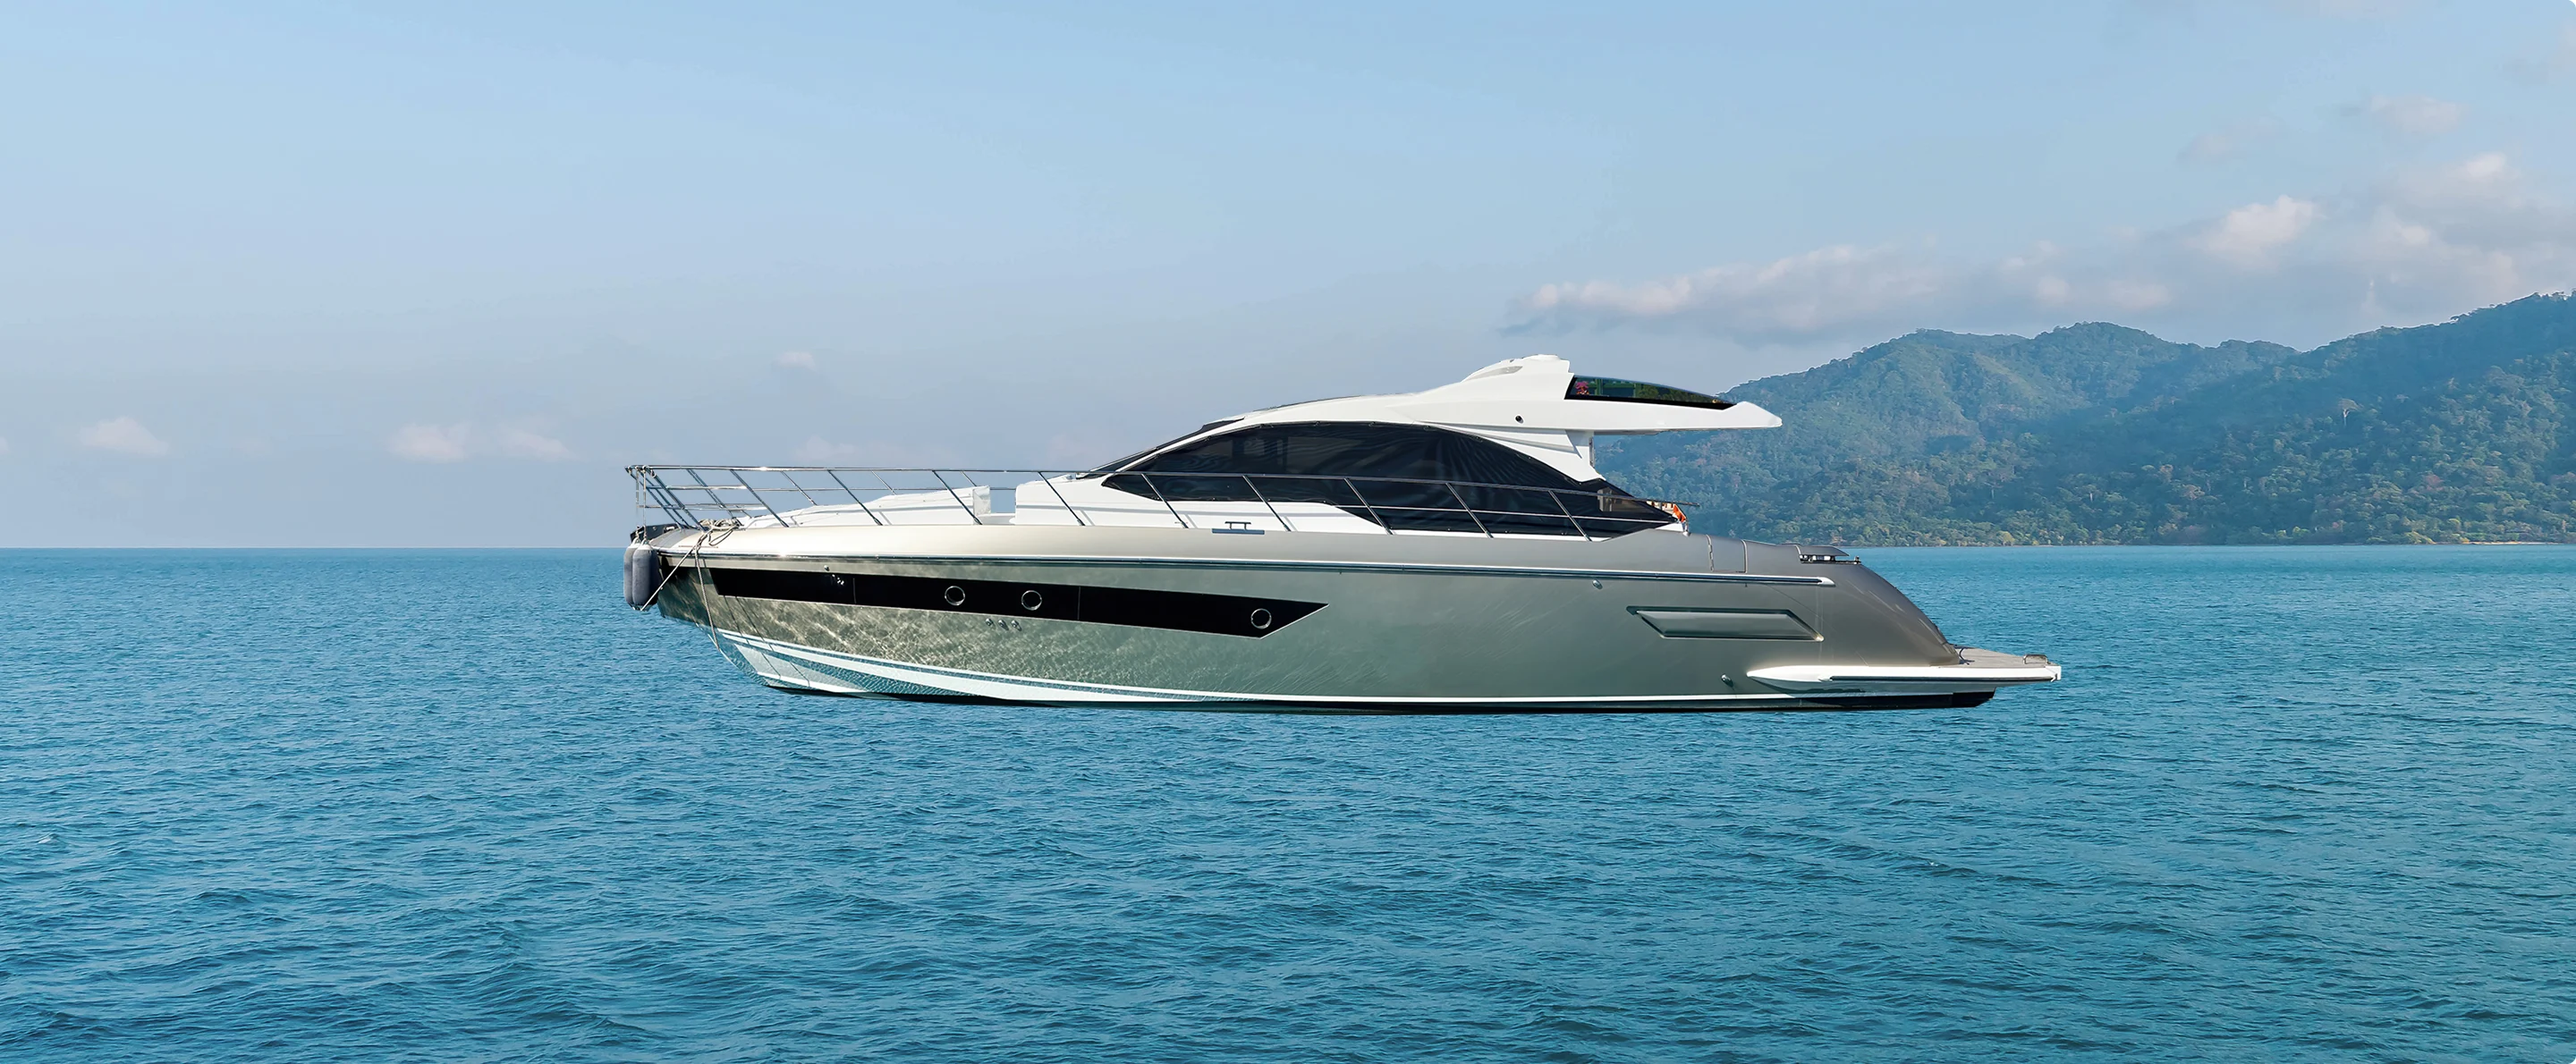
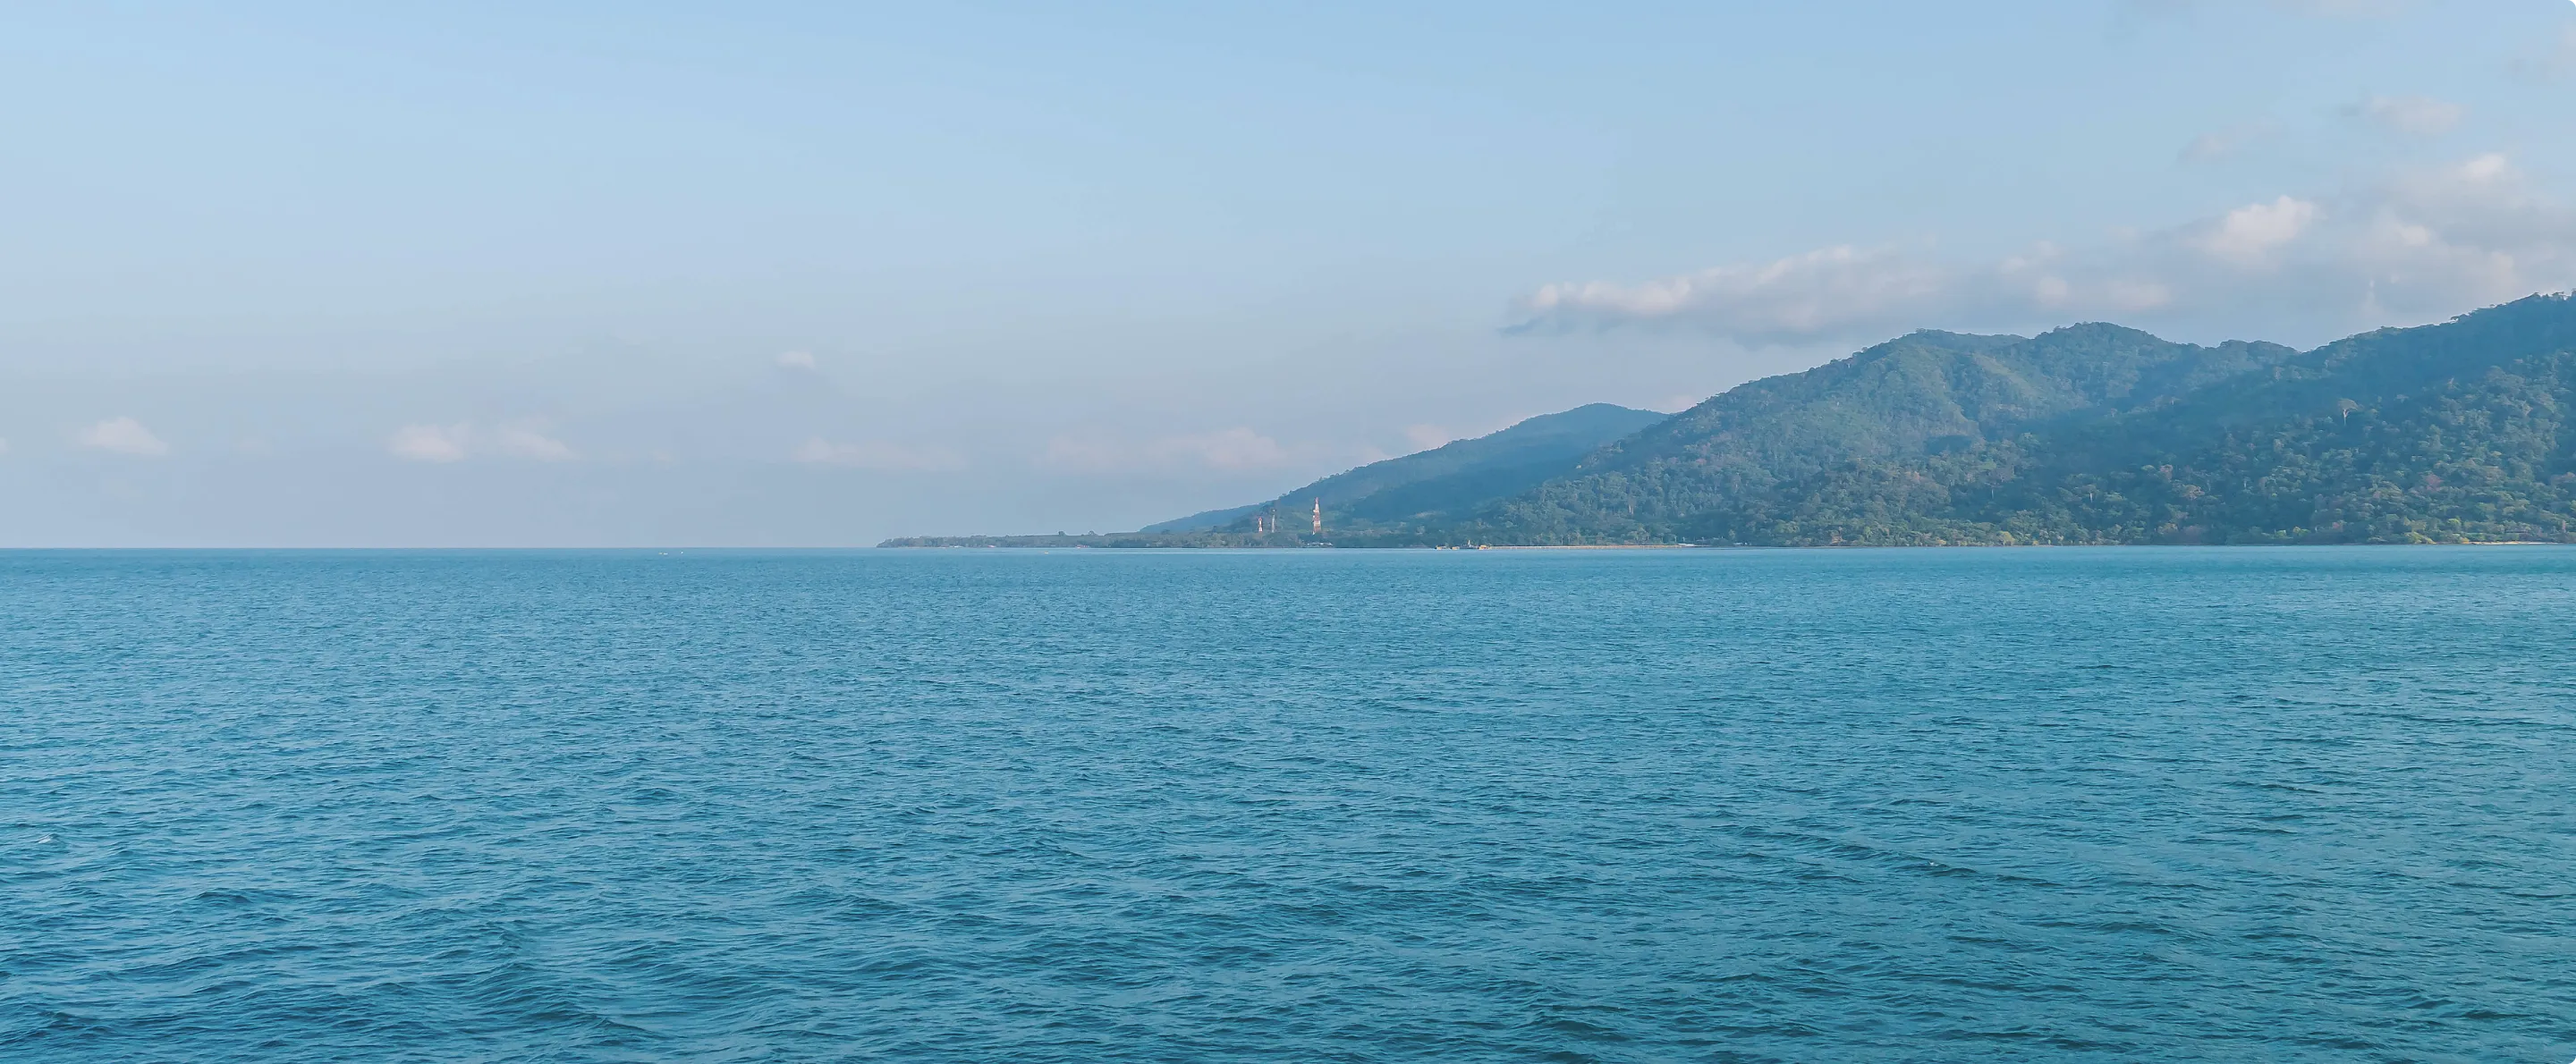
update boat customize

Changed region(s): [[0.2188, 0.3109, 0.8125, 0.684]]

diff --git a/src/components/ui/aesthetic/BoatColorCustomizer.tsx b/src/components/ui/aesthetic/BoatColorCustomizer.tsx
@@ -24,38 +24,38 @@ const colorPalette: {
             id: "white",
             name: "White",
             hex: "#FFFFFF",
-            image: "/images/our-services/aesthetic-solutions/boat-customizer/hull-side/white.webp",
+            image: "/images/our-services/aesthetic-solutions/boat-customizer/hull-side/white.png",
         },
         {
             id: "blue",
             name: "Blue",
             hex: "#1C4583",
-            image: "/images/our-services/aesthetic-solutions/boat-customizer/hull-side/blue.webp",
+            image: "/images/our-services/aesthetic-solutions/boat-customizer/hull-side/blue.png",
         },
         {
             id: "grey",
             name: "Grey",
             hex: "#6B7280",
             gradient: "linear-gradient(140deg, #D2D2D3 0%, #9F9FA0 69%, #D2D2D3 100%)",
-            image: "/images/our-services/aesthetic-solutions/boat-customizer/hull-side/grey.webp",
+            image: "/images/our-services/aesthetic-solutions/boat-customizer/hull-side/grey.png",
         },
         {
             id: "darkgrey",
             name: "Dark Grey",
             hex: "#6F6F71",
-            image: "/images/our-services/aesthetic-solutions/boat-customizer/hull-side/dark-grey.webp",
+            image: "/images/our-services/aesthetic-solutions/boat-customizer/hull-side/dark-grey.png",
         },
         {
             id: "red",
             name: "Red",
             hex: "#E22222",
-            image: "/images/our-services/aesthetic-solutions/boat-customizer/hull-side/red.webp",
+            image: "/images/our-services/aesthetic-solutions/boat-customizer/hull-side/red.png",
         },
         {
             id: "black",
             name: "Black",
             hex: "#000000",
-            image: "/images/our-services/aesthetic-solutions/boat-customizer/hull-side/black.webp",
+            image: "/images/our-services/aesthetic-solutions/boat-customizer/hull-side/black.png",
         },
     ],
     bootStripe: [
@@ -63,38 +63,38 @@ const colorPalette: {
             id: "white",
             name: "White",
             hex: "#FFFFFF",
-            image: "/images/our-services/aesthetic-solutions/boat-customizer/boot-stripe/white.webp",
+            image: "/images/our-services/aesthetic-solutions/boat-customizer/boot-stripe/white.png",
         },
         {
             id: "blue",
             name: "Blue",
             hex: "#1C4583",
-            image: "/images/our-services/aesthetic-solutions/boat-customizer/boot-stripe/blue.webp",
+            image: "/images/our-services/aesthetic-solutions/boat-customizer/boot-stripe/blue.png",
         },
         {
             id: "grey",
             name: "Grey",
             hex: "#6B7280",
             gradient: "linear-gradient(140deg, #D2D2D3 0%, #9F9FA0 69%, #D2D2D3 100%)",
-            image: "/images/our-services/aesthetic-solutions/boat-customizer/boot-stripe/grey.webp",
+            image: "/images/our-services/aesthetic-solutions/boat-customizer/boot-stripe/grey.png",
         },
         {
             id: "darkgrey",
             name: "Dark Grey",
             hex: "#6F6F71",
-            image: "/images/our-services/aesthetic-solutions/boat-customizer/boot-stripe/dark-grey.webp",
+            image: "/images/our-services/aesthetic-solutions/boat-customizer/boot-stripe/dark-grey.png",
         },
         {
             id: "red",
             name: "Red",
             hex: "#E22222",
-            image: "/images/our-services/aesthetic-solutions/boat-customizer/boot-stripe/red.webp",
+            image: "/images/our-services/aesthetic-solutions/boat-customizer/boot-stripe/red.png",
         },
         {
             id: "black",
             name: "Black",
             hex: "#000000",
-            image: "/images/our-services/aesthetic-solutions/boat-customizer/boot-stripe/black.webp",
+            image: "/images/our-services/aesthetic-solutions/boat-customizer/boot-stripe/black.png",
         },
     ],
     hullBottom: [
@@ -102,38 +102,38 @@ const colorPalette: {
             id: "white",
             name: "White",
             hex: "#FFFFFF",
-            image: "/images/our-services/aesthetic-solutions/boat-customizer/hull-bottom/white.webp",
+            image: "/images/our-services/aesthetic-solutions/boat-customizer/hull-bottom/white.png",
         },
         {
             id: "blue",
             name: "Blue",
             hex: "#1C4583",
-            image: "/images/our-services/aesthetic-solutions/boat-customizer/hull-bottom/blue.webp",
+            image: "/images/our-services/aesthetic-solutions/boat-customizer/hull-bottom/blue.png",
         },
         {
             id: "grey",
             name: "Grey",
             hex: "#6B7280",
             gradient: "linear-gradient(140deg, #D2D2D3 0%, #9F9FA0 69%, #D2D2D3 100%)",
-            image: "/images/our-services/aesthetic-solutions/boat-customizer/hull-bottom/grey.webp",
+            image: "/images/our-services/aesthetic-solutions/boat-customizer/hull-bottom/grey.png",
         },
         {
             id: "darkgrey",
             name: "Dark Grey",
             hex: "#6F6F71",
-            image: "/images/our-services/aesthetic-solutions/boat-customizer/hull-bottom/dark-grey.webp",
+            image: "/images/our-services/aesthetic-solutions/boat-customizer/hull-bottom/dark-grey.png",
         },
         {
             id: "red",
             name: "Red",
             hex: "#E22222",
-            image: "/images/our-services/aesthetic-solutions/boat-customizer/hull-bottom/red.webp",
+            image: "/images/our-services/aesthetic-solutions/boat-customizer/hull-bottom/red.png",
         },
         {
             id: "black",
             name: "Black",
             hex: "#000000",
-            image: "/images/our-services/aesthetic-solutions/boat-customizer/hull-bottom/black.webp",
+            image: "/images/our-services/aesthetic-solutions/boat-customizer/hull-bottom/black.png",
         },
     ],
 };

diff --git a/src/styles/components/aesthetic/_boat-color-customizer.scss b/src/styles/components/aesthetic/_boat-color-customizer.scss
@@ -27,27 +27,39 @@
     @include base.media-down(mobile) {
         height: 300px;
     }
+
+    @include base.media-down(mini-mobile) {
+        height: 250px;
+    }
 }
 
 .boat-color-customizer__boat {
-    // background-image: url("/images/our-services/aesthetic-solutions/boat-customizer/boat.webp");
+    background-image: url("/images/our-services/aesthetic-solutions/boat-customizer/boat.png");
     background-size: contain;
     background-position: center;
     background-repeat: no-repeat;
     position: relative;
     margin: 0 auto;
-    width: 100%;
-    height: 100%;
-    // width: 830px;
+    // width: 100%;
     // height: 100%;
+    width: 850px;
+    height: 100%;
 
-    // @include base.media-down(tablet) {
-    //     width: 600px;
-    // }
+    @include base.media-up(wide) {
+        width: 1100px;
+    }
 
-    // @include base.media-down(mobile) {
-    //     width: 350px;
-    // }
+    @include base.media-down(tablet) {
+        width: 600px;
+    }
+
+    @include base.media-down(mobile) {
+        width: 370px;
+    }
+
+    @include base.media-down(mini-mobile) {
+        width: 300px;
+    }
 }
 
 .boat-color-customizer__hull-side,
@@ -91,78 +103,60 @@
 
 .boat-color-customizer__colors {
     display: flex;
-    gap: 2px;
-
-    @include base.media-down(laptop) {
-        gap: 4px;
-    }
+    gap: 6px;
 
     @include base.media-down(tablet) {
         gap: 2px;
     }
 
     @include base.media-down(mobile) {
-        width: 100%;
-        gap: 2px;
+        gap: 4px;
     }
 }
 
 .boat-color-customizer__color-wrapper {
     position: relative;
-    width: 58px;
-    height: 58px;
     border-radius: 5px;
     overflow: hidden;
     display: flex;
     align-items: center;
     justify-content: center;
+    flex: 1;
+    width: auto;
+    height: auto;
+    aspect-ratio: 1 / 1;
+    min-width: 0;
+    padding: 2px;
 
     &.boat-color-customizer__color-option--selected {
         border: 2px solid var(--black);
     }
 
-    @include base.media-down(laptop) {
-        width: 42px;
-        height: 42px;
-    }
-
     @include base.media-down(tablet) {
-        width: 32px;
-        height: 32px;
+        padding: 1px;
     }
 
     @include base.media-down(mobile) {
-        flex: 1;
-        width: auto;
-        height: auto;
-        aspect-ratio: 1 / 1;
-        min-width: 0;
         padding: 2px;
     }
+
+    // @include base.media-down(mobile) {
+    //     flex: 1;
+    //     width: auto;
+    //     height: auto;
+    //     aspect-ratio: 1 / 1;
+    //     min-width: 0;
+    //     padding: 2px;
+    // }
 }
 
 .boat-color-customizer__color-option {
     position: relative;
-    width: 50px;
-    height: 50px;
+    width: 100%;
+    height: 100%;
     border-radius: 5px;
     cursor: pointer;
     transition: all 0.3s ease;
-
-    @include base.media-down(laptop) {
-        width: 36px;
-        height: 36px;
-    }
-
-    @include base.media-down(tablet) {
-        width: 26px;
-        height: 26px;
-    }
-
-    @include base.media-down(mobile) {
-        width: 100%;
-        height: 100%;
-    }
 }
 
 .boat-color-customizer__color-option:hover {

diff --git a/src/app/home/page.tsx b/src/app/home/page.tsx
@@ -528,21 +528,28 @@ export default function HeaderPage() {
                             </div>
                         </div>
                         <div className='volvo-penta__content-right'>
-                            <PrimaryButton
+                            {/* <PrimaryButton
                                 theme='dark'
                                 icon='ph-fill ph-file-text'
                                 noIconRotate={true}
                                 onClick={confirmDialog.open}>
                                 View Document
+                            </PrimaryButton> */}
+
+                            <PrimaryButton
+                                theme='dark'
+                                icon='ph-fill ph-file-text'
+                                noIconRotate={true}>
+                                View Document
                             </PrimaryButton>
 
-                            <DocumentModal
+                            {/* <DocumentModal
                                 open={confirmDialog.isOpen}
                                 onOpenChange={confirmDialog.setIsOpen}
                                 title='Title'
                                 onConfirm={handleDelete}
                                 className='modal-document'
-                            />
+                            /> */}
                         </div>
                     </div>
                 </div>

diff --git a/src/components/ui/dialog/DocumentModal.tsx b/src/components/ui/dialog/DocumentModal.tsx
@@ -51,7 +51,7 @@ export const DocumentModal = ({
 
     return (
         <Dialog open={open} onOpenChange={onOpenChange}>
-            <DialogContent size='full' className={cn(variantStyles[variant], className)}>
+            <DialogContent size='md' className={cn(variantStyles[variant], className)}>
                 {/* Close Button */}
                 <DialogClose asChild>
                     <button aria-label='Close dialog'>✕</button>
